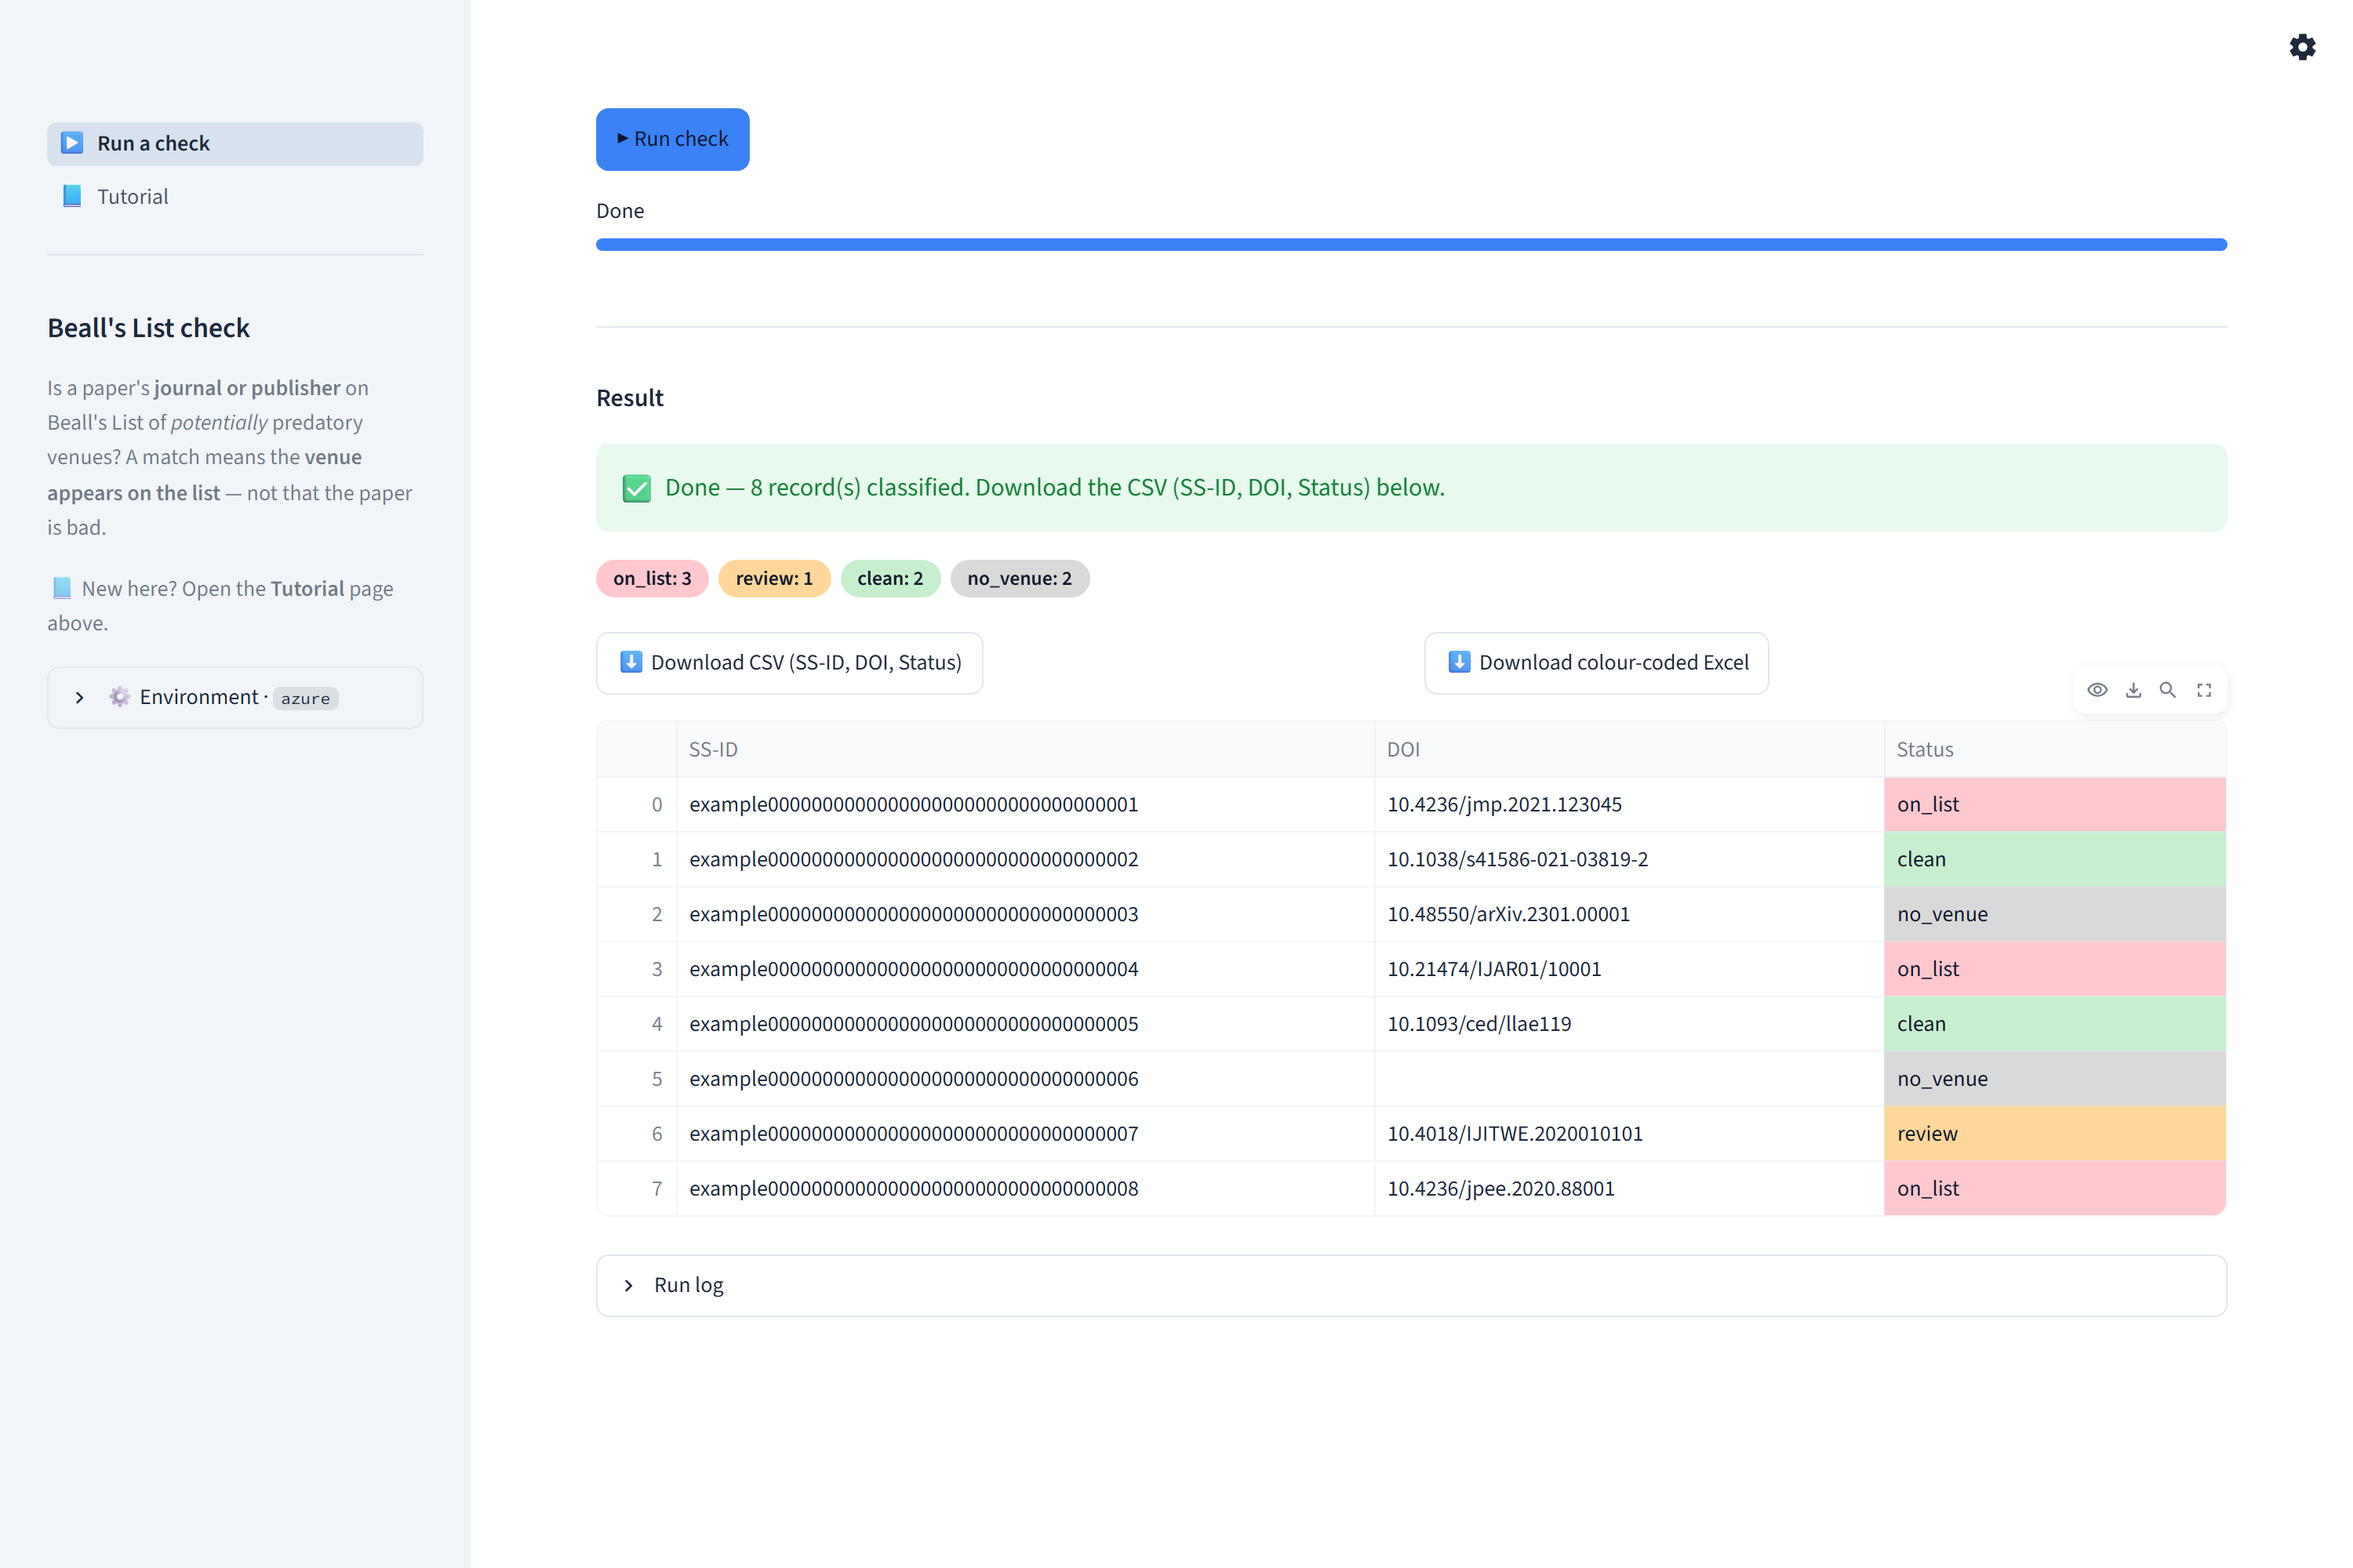
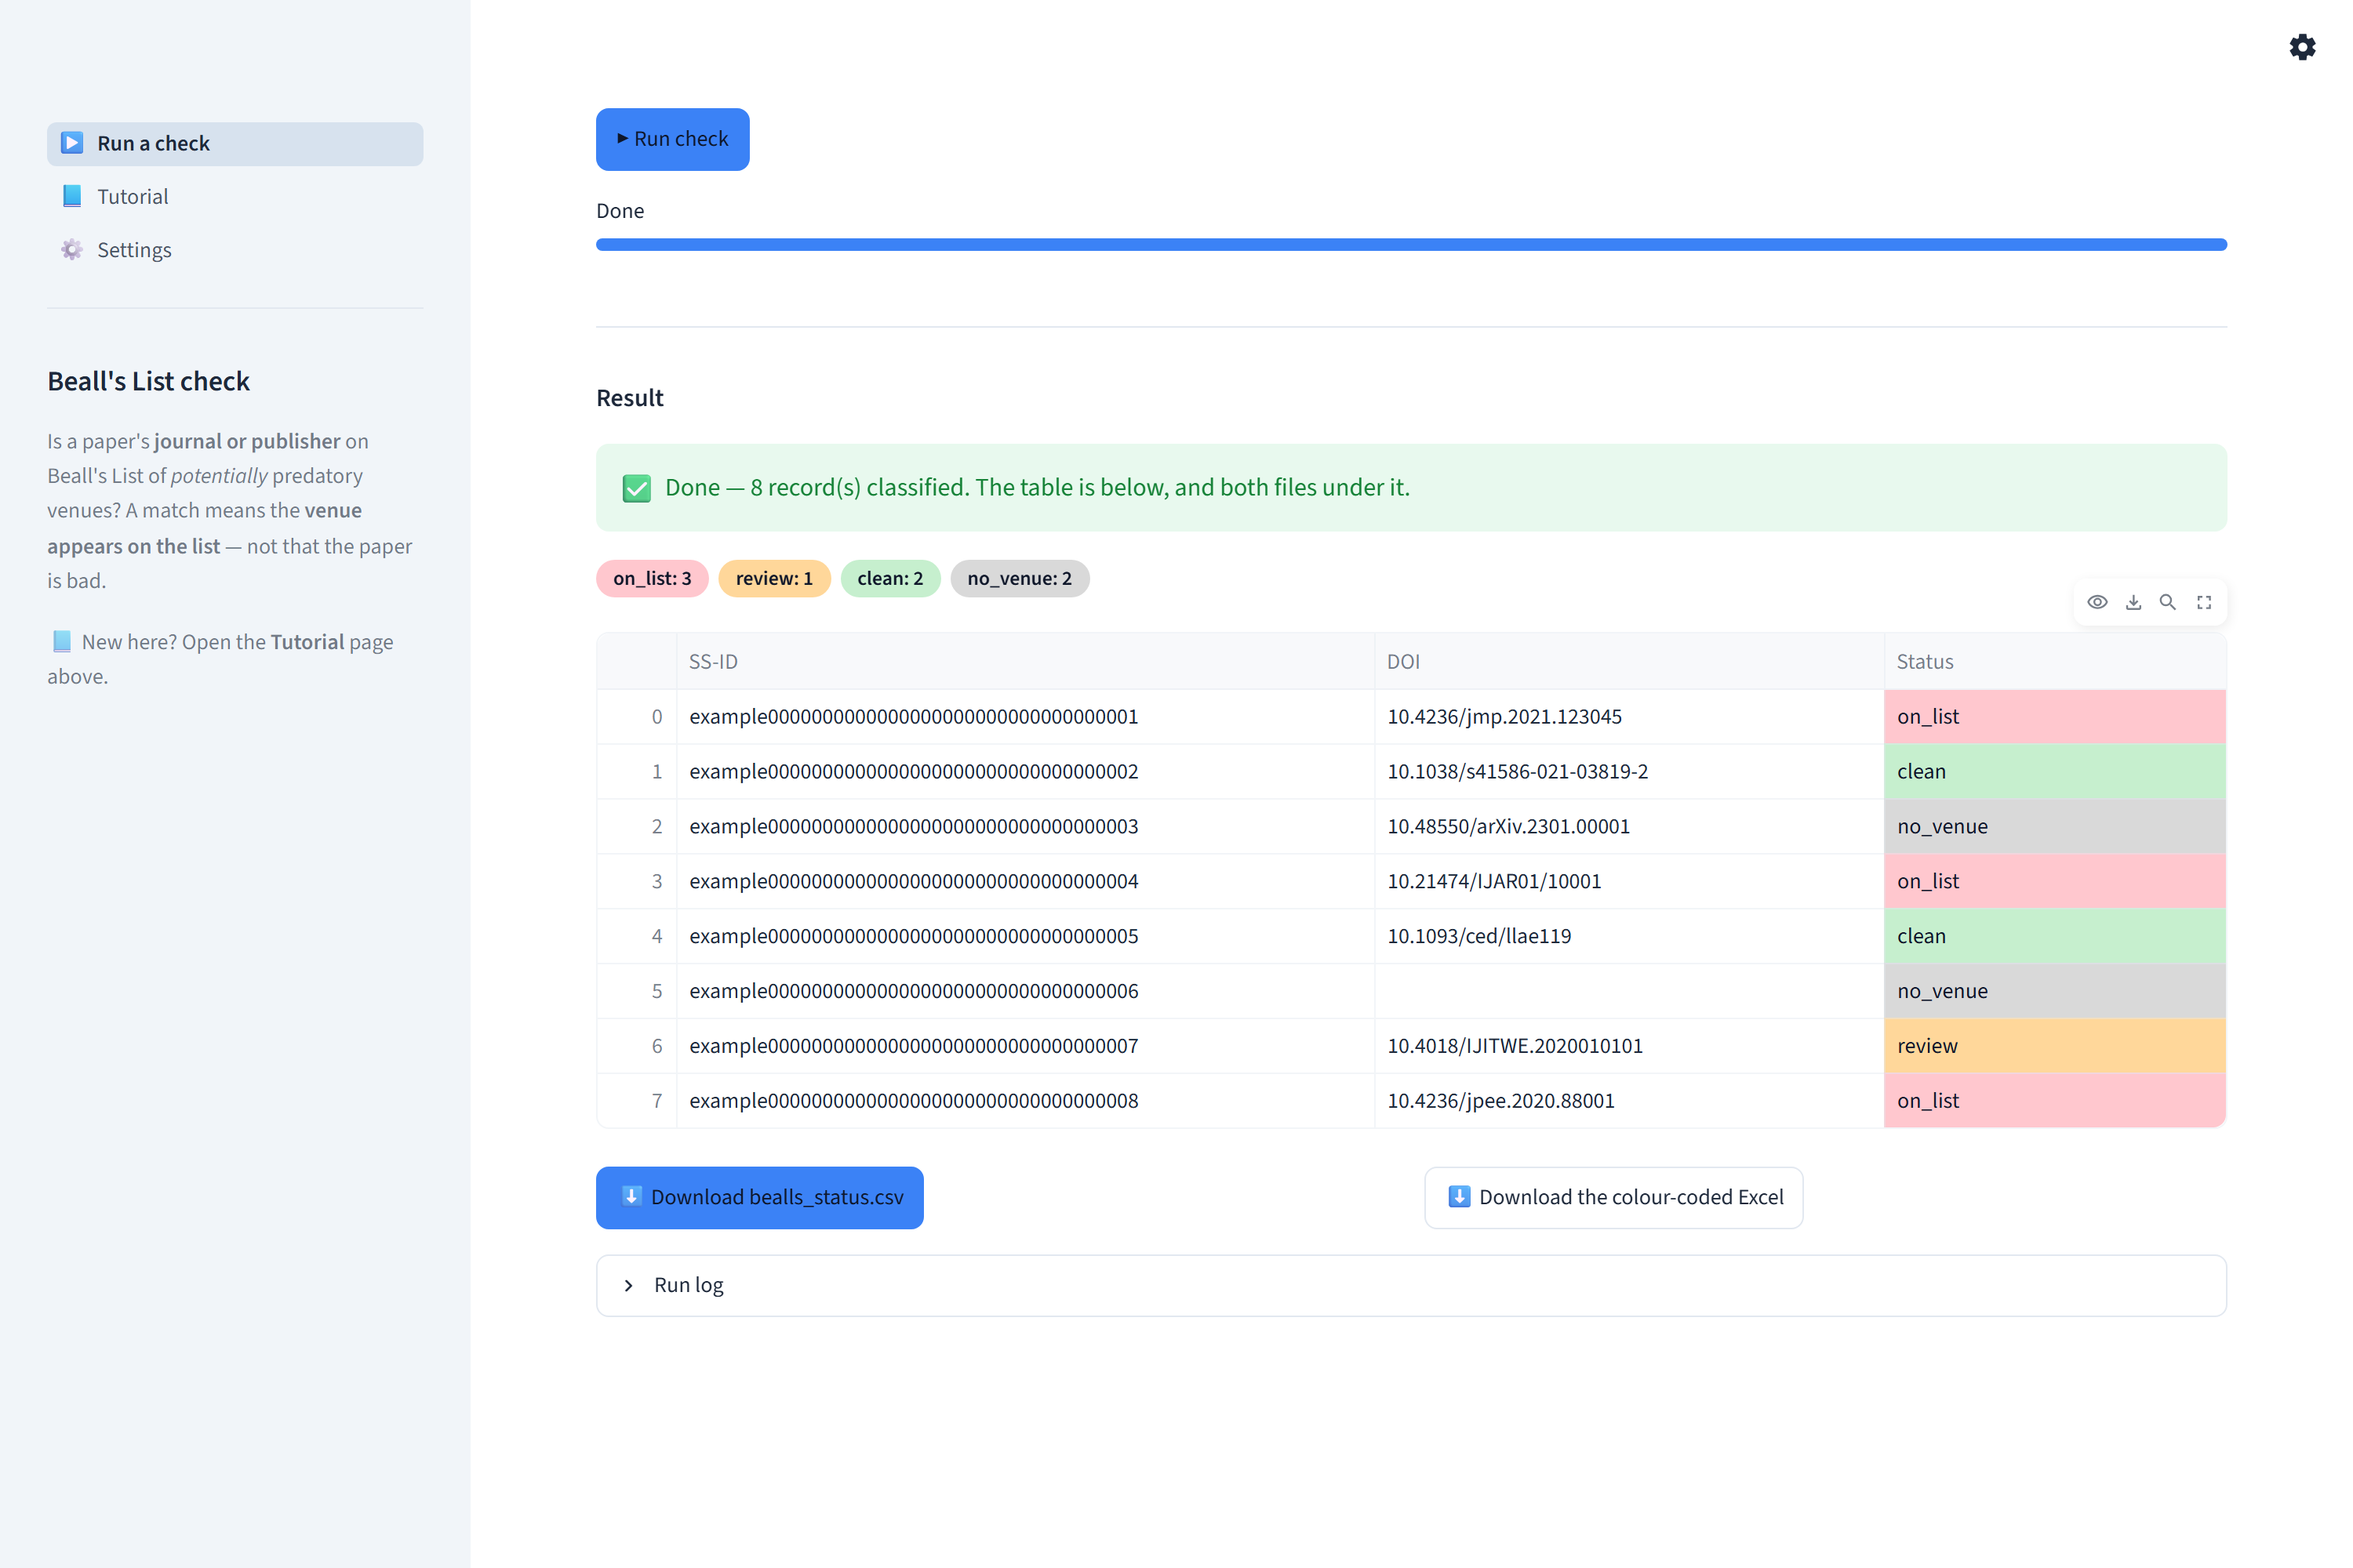
docs(ui): retake the screenshots, and stop printing a docstring on the page
The three images in the READMEs and the Tutorial were from 27 July and
showed an app that no longer exists: the "Load the example corpus" button,
the JSON fold instead of the tab, lowercase list names, Options as one
undivided column. For a guide whose readers are all first-time readers,
pictures that disagree with the screen are worse than no pictures.

Retaking them found a bug none of the DOM checks had: **page_check
carried two docstrings.** The one-line summary survived the split into
per-step functions as a second string literal, and Streamlit's magic
renders a bare expression — so "The four-step flow: choose a check,
provide papers, set options, run." was being printed at the top of every
page, above the title. Visible in the first retake, gone in the second,
and confirmed absent from the DOM. Swept the rest of ui/ and src/ with an
AST walk for the same shape: nothing else.

The script needed updating before it could run at all: it clicked a button
that no longer exists and waited for a success banner whose wording
changed. It now waits for the seeded example's own banner instead, which
is the signal that Step 2 has finished parsing.

Playwright stays out of requirements.txt, as its docstring says — it is
needed only to regenerate these three files.

diff --git a/ui/shoot_screenshots.py b/ui/shoot_screenshots.py
@@ -59,10 +59,10 @@ def main():
         settle(page)
 
         # ── 1. The whole form: the check table, papers loaded, quality panel ──
-        # The example corpus is not one of the input sources; it is a button that
-        # fills the paste box, which is what the app then reads.
-        page.get_by_role("button", name="Load the example corpus").click()
-        page.wait_for_selector("text=Loaded 8 paper(s)", timeout=60_000)
+        # Nothing to click: the page opens with the bundled example already in
+        # the paste box, which is what makes it runnable on arrival.  The banner
+        # that says so is the signal that Step 2 has finished parsing it.
+        page.wait_for_selector("text=example corpus", timeout=60_000)
         settle(page)
         page.screenshot(path=str(OUT / "ui-main.png"))
         print("wrote ui-main.png")
@@ -74,7 +74,7 @@ def main():
         # It is scoped to that container: "Fast check" also appears in Step 1.
         page.wait_for_selector(".st-key-runsummary:has-text('Fast check')", timeout=60_000)
         page.get_by_role("button", name="▶ Run check").click()
-        page.wait_for_selector("text=Your Excel is ready below", timeout=RUN_TIMEOUT)
+        page.wait_for_selector("text=the whole workbook is below it", timeout=RUN_TIMEOUT)
         settle(page, TOAST)
         frame(page, page.get_by_text("Result", exact=True))
         page.screenshot(path=str(OUT / "ui-report.png"))

diff --git a/ui/app.py b/ui/app.py
@@ -987,7 +987,10 @@ def page_check():
     genuinely crossed a step boundary — three of them, it turns out, and one
     comment already had to say so in prose.
     """
-    """The four-step flow: choose a check, provide papers, set options, run."""
+    # The old one-line docstring survived the split as a second string literal
+    # below the new one — and Streamlit's magic renders a bare expression, so it
+    # was being *printed at the top of the page*, above the title, on every
+    # render. Caught by retaking the screenshots, which is what they are for.
     st.title("🕵 Beall's List predatory-venue check")
     st.caption("Is the paper's **journal/publisher on Beall's List** of potentially predatory "
                "venues? Add your papers as JSON, run, and download the Excel report. "
